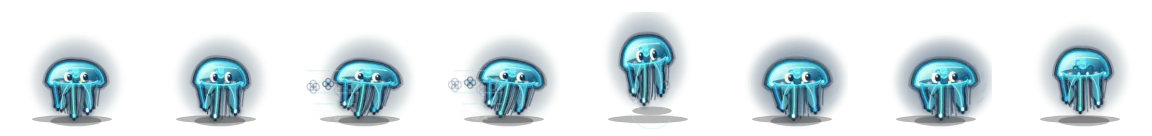
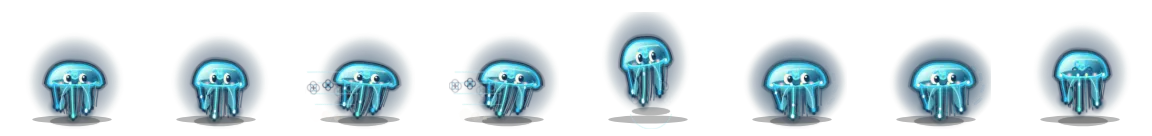
Afina a Yomi y enciende a Nácar y Constelación [skip ci]

diff --git a/characters/art/yomi-lantern.js b/characters/art/yomi-lantern.js
@@ -235,7 +235,12 @@ function shrineAccessory(c,f,w,h,swing,glow,shadow,acting){
  const y=-h*.48, cord='#f3bf80', tassel=f===4?'#f49a90':'#bf5478';
  c.save();
  c.translate(w*.79,y);
- c.rotate(swing*.016+(acting?.front||0)*.6);
+ c.rotate(swing*.025+(acting?.front||0)*.88);
+ if(f>=2){
+  line(c,shadow,4);c.beginPath();c.moveTo(5,29);c.lineTo(5,-25-f*2);c.stroke();
+  line(c,cord,1.45);c.beginPath();c.moveTo(5,28);c.lineTo(5,-25-f*2);c.stroke();
+  ellipse(c,5,-25-f*2,2.8,2.8,glow);
+ }
  line(c,cord,1.7);c.beginPath();c.moveTo(-4,0);c.quadraticCurveTo(9,2,11,14);c.stroke();
  if(f>=1){
   c.fillStyle=shadow;c.beginPath();c.moveTo(5,14);c.lineTo(17,14);c.lineTo(19,23);c.lineTo(15,29);c.lineTo(7,29);c.lineTo(3,23);c.closePath();c.fill();
@@ -288,7 +293,7 @@ function draw(ctx,pose,R){
   let open=st==="attack"?atk:cast===2?acting.maw:st==="victory"?.3:.05;
   let swing=(reduced?0:Math.sin(t*(run?.26:.08))*(run?5:2.4))+(Number(p.sway)||0)*3;
   let hover=(st==="dead"?1:(reduced?0:Math.sin(t*.067)*2.1))-(flight?3:0)+(acting?.rise||0);
-  const w=20+f*2.9,h=55+f*4.2;
+  const w=[18,17,18,19,20][f],h=[53,65,74,83,92][f];
   // V348 · Yomi stays physically connected during the title performance.
   // No substitute silhouette or combat casts: head, lantern ribs, sleeves,
   // trailing ribbon and hearth all belong to this ORIGINAL five-form art.
@@ -305,7 +310,7 @@ function draw(ctx,pose,R){
   // Original five silhouette types remain recognizable. The lantern's rib
   // geometry, its attached sleeves and the mouth all share the same origin.
   hover+=life.rise;swing+=life.ribbon;open=clamp(open+life.open,0,1);
-  const shoulder=-h*.68,faceY=-h*.72+listen*.8+reveal*(-1.4)+bow*2.1+life.face;
+  const shoulder=-h*.53,faceY=-h*.73+listen*.8+reveal*(-1.4)+bow*2.1+life.face;
   const stageTilt=listen*(-.10)+gather*.16-reveal*(-.19)+startle*.22+bow*(-.13);
   ctx.save();ctx.translate(0,hover);ctx.rotate(
     (run?(reduced?0:-.085*Math.sin(t*.32)):flight?-.045:0)
@@ -329,7 +334,7 @@ function draw(ctx,pose,R){
   }
   // The silhouette drops down into a split shrine coat as the forms mature.
   if(f>=1){
-    const flare=w*(.79+f*.095);
+    const flare=w*(.76+f*.06);
     ctx.fillStyle=shadow;ctx.beginPath();ctx.moveTo(-w*.55,shoulder);
     ctx.quadraticCurveTo(-flare,-26,-flare-swing*.42,-4);
     ctx.quadraticCurveTo(-w*.52,4,-4,-4);ctx.lineTo(0,-14);
@@ -365,7 +370,7 @@ function draw(ctx,pose,R){
     const welcomeSleeve=leading?(listen*.34+gather*.65+reveal*(-.75)+startle*.95+bow*.46+life.sleeveFront):
       (-listen*.19-gather*.40+reveal*.69-startle*.56+bow*.38+life.sleeveBack);
     ctx.rotate(side*((cast===1?.22:run?.22+(reduced?0:Math.sin(runPh+side*1.6)*.28):jumpS?.55:fallS?2.45:.12)+(reduced?0:Math.sin(t*.075+side)*.07))+windup+welcomeSleeve);
-    const sleeveLen=19+f*2.9+(cast===1?10:0)+(cast===2&&leading?4:0)+(cast===3?6*(acting?.aurora||0):0)+gather*1.7+reveal*2.3;
+    const sleeveLen=17+f*2.5+(cast===1?10:0)+(cast===2&&leading?4:0)+(cast===3?6*(acting?.aurora||0):0)+gather*1.7+reveal*2.3;
     ctx.fillStyle=shadow;ctx.beginPath();ctx.moveTo(-7,0);
     ctx.quadraticCurveTo(-13,sleeveLen*.5,-10,sleeveLen);
     ctx.quadraticCurveTo(0,sleeveLen+5,11,sleeveLen);
@@ -394,13 +399,18 @@ function draw(ctx,pose,R){
   // Expressive OHANA face, never permanent horror teeth.
   const mood=hurt?"closed":angry?"angry":(welcome?.spark||0)>.47?"closed":startle>.23?"closed":
     reveal>.25||bow>.20||(welcome?.melody||0)>.45||(welcome?.dino||0)>.45?"happy":st==="victory"||cast===3?"happy":"normal";
-  const eyeSize=f===0?8:7.1+f*.18;
-  R.eye(ctx,-8,faceY,eyeSize,p,{iris:f===4?"#a94568":"#60334b",mood});
-  R.eye(ctx,9,faceY,eyeSize*.92,p,{iris:f===4?"#a94568":"#60334b",mood});
+  const eyeSize=f===0?7.3:6.1+f*.13;
+  R.eye(ctx,-7.5,faceY,eyeSize,p,{iris:f===4?"#a94568":"#60334b",mood});
+  R.eye(ctx,8,faceY,eyeSize*.92,p,{iris:f===4?"#a94568":"#60334b",mood});
   if(!hurt&&mood==='normal'&&f>0){
-    line(ctx,shadow,1.45);ctx.beginPath();
-    ctx.moveTo(-16,faceY-3);ctx.lineTo(-18,faceY-5);
-    ctx.moveTo(15,faceY-3);ctx.lineTo(18,faceY-5);ctx.stroke();
+    line(ctx,shadow,2.05);ctx.beginPath();
+    ctx.moveTo(-13,faceY-1);ctx.quadraticCurveTo(-10,faceY-5,-4,faceY-4);
+    ctx.moveTo(4,faceY-4);ctx.quadraticCurveTo(10,faceY-5,14,faceY-1);ctx.stroke();
+    for(const side of [-1,1]){
+      line(ctx,'#b75a73',.85);ctx.beginPath();
+      ctx.moveTo(side*11,faceY+5);ctx.lineTo(side*9,faceY+7);
+      ctx.moveTo(side*13,faceY+5);ctx.lineTo(side*11,faceY+7);ctx.stroke();
+    }
   }
   if(!angry){
     ellipse(ctx,-w*.49,faceY+9,3.5,2.1,"#ef9fa0");
@@ -464,6 +474,12 @@ function draw(ctx,pose,R){
   if(st==="victory"||((p.flourishN||0)%4===3&&p.flourish>0)){
     const v=st==="victory"?pulse:Math.sin(Math.PI*clamp(p.flourish,0,1));
     ctx.save();ctx.globalAlpha=.4*v;crescent(ctx,w+5,faceY-19,9+f,glow);ctx.restore();
+  }
+  if(f>=2&&run&&!reduced){
+    line(ctx,trim,2);
+    ctx.beginPath();ctx.moveTo(-w*.59,-h*.34);
+    ctx.quadraticCurveTo(-w-8,-h*.21,-w-15-swing*.58,-h*.29);
+    ctx.stroke();
   }
   shrineAccessory(ctx,f,w,h,swing,glow,shadow,acting);
   drawYomiRitual(ctx,p,f,trim,glow,faceY,w,t);

diff --git a/characters/art/yomi.js b/characters/art/yomi.js
@@ -350,21 +350,30 @@ function drawTorso(ctx,F,f,col,glow,accent,core,t,pulse,swing,reduced){
   line(ctx,glow,1.2);for(const dx of [-8,0,8]){ctx.beginPath();ctx.moveTo(dx*.6,hemT+3);ctx.lineTo(dx*1.5+swing*.1,hemB+2);ctx.stroke();}
   return;
  }
- // F4 constellation gown: indigo glass full of stars, gold rim.
- const top=F.hy+F.hh/2+2,bot=-9,hem=27+Math.abs(swing)*.3;
- ctx.fillStyle=INDIGO;ctx.beginPath();ctx.moveTo(-14,top);ctx.lineTo(14,top);
- ctx.quadraticCurveTo(13,top+26,hem*.7,bot-12);ctx.quadraticCurveTo(hem+swing*.2,bot-4,hem*.9+swing*.2,bot);
- ctx.quadraticCurveTo(0,bot+6,-hem*.9+swing*.2,bot);ctx.quadraticCurveTo(-hem+swing*.2,bot-4,-hem*.7,bot-12);
- ctx.quadraticCurveTo(-13,top+26,-14,top);ctx.closePath();ctx.fill();line(ctx,GOLD,2.6);ctx.stroke();
- for(let i=0;i<14;i++){
-  const v=hn(i+3),u=hn(i+77),yy=top+6+v*(bot-top-10),half=14+(yy-top)/(bot-top)*(hem-14)-4;
-  ctx.save();ctx.globalAlpha=.5+.45*((Math.sin(t*.05+i*2.1)+1)/2);
-  if(i%5===0)star4(ctx,(u*2-1)*half,yy,2.6,"#fff6d8");else ellipse(ctx,(u*2-1)*half,yy,.9,.9,"#e8e4ff");
+ // The final chassis is an observatory with four armored shutters around a star.
+ const top=F.hy+F.hh/2+2,bot=-11,mid=(top+bot)*.5;
+ const spread=8+Math.min(15,core*7), drift=swing*.15;
+ for(const side of [-1,1]){
+  ctx.save();ctx.scale(side,1);
+  ctx.fillStyle='#372965';ctx.beginPath();ctx.moveTo(12,top);
+  ctx.lineTo(20+spread*.78,top+10);ctx.lineTo(23+spread,mid);
+  ctx.lineTo(17+spread*.64,bot-7);ctx.lineTo(9,bot);
+  ctx.lineTo(13+spread*.42,mid);ctx.closePath();ctx.fill();line(ctx,accent,1.5);ctx.stroke();
+  line(ctx,glow,1.2);ctx.beginPath();ctx.moveTo(16,top+9);
+  ctx.lineTo(20+spread*.73,mid-2);ctx.lineTo(15+spread*.49,bot-8);ctx.stroke();
   ctx.restore();
  }
- // pearl chest piece with the core
- ctx.fillStyle=col[0];ctx.beginPath();ctx.moveTo(-14,top);ctx.lineTo(14,top);ctx.quadraticCurveTo(12,top+13,0,top+19);ctx.quadraticCurveTo(-12,top+13,-14,top);ctx.closePath();ctx.fill();line(ctx,LINE,2.2);ctx.stroke();
- drawCore(ctx,0,top+9,5.6+core,glow,accent,pulse);
+ ctx.fillStyle=INDIGO;ctx.beginPath();ctx.moveTo(-13,top);ctx.lineTo(13,top);
+ ctx.lineTo(17,mid);ctx.lineTo(11+drift,bot);ctx.lineTo(-11+drift,bot);
+ ctx.lineTo(-17,mid);ctx.closePath();ctx.fill();line(ctx,GOLD,2.1);ctx.stroke();
+ for(let i=0;i<7;i++){
+  const yy=top+7+hn(i+4)*(bot-top-12), xx=(hn(i+70)*2-1)*11;
+  ellipse(ctx,xx,yy,1.05,1.05,i%2?glow:'#fff6d8');
+ }
+ drawCore(ctx,0,mid,6.2+core,glow,accent,pulse);
+ star4(ctx,0,mid,4.2+core*.6,'#faffff');
+ line(ctx,accent,2);ctx.beginPath();ctx.moveTo(-6+drift,bot+4);ctx.lineTo(6+drift,bot+4);ctx.stroke();
+
 }
 
 function drawCore(ctx,x,y,r,glow,accent,pulse){
@@ -380,7 +389,7 @@ function wingNodes(side,spread,sweep){
  const base=[[14,-14],[30,-24],[42,-12],[36,4],[22,8]];
  return base.map(([x,y],i)=>[side*(x*sx-sweep*i*1.2),y*sy+sweep*i*.8]);
 }
-function drawRadiators(ctx,side,F,t,spread,sweep,reduced){
+function drawWing(ctx,side,F,t,spread,sweep,reduced){
  const rootX=side*8,rootY=F.hy+F.hh/2+6,nodes=wingNodes(side,spread,sweep);
  ctx.save();ctx.translate(rootX,rootY);ctx.globalAlpha=.94;
  // A network becomes a set of articulated solar panels, with family lights along the hinges.
@@ -436,7 +445,7 @@ function drawSatellites(ctx,F,t,front,reduced,glow,accent,cast,acting){
 
 function drawRingHalf(ctx,F,front,t,reduced,acting){
  const y=F.hy+F.hh/2+28;
- const r=34+(acting?.release||0)*5, ry=14;
+ const r=36+(acting?.release||0)*7, ry=14+2*(acting?.release||0);
  const phase=reduced?0:t*.018;
  ctx.save();ctx.translate(0,y);
  ctx.strokeStyle=front?'#e7c48d':'#637baf';ctx.lineWidth=front?1.45:2;
@@ -594,8 +603,8 @@ export function drawArtificialIntelligence(ctx,pose,R){
   else if(st==="idle"&&!reduced){const br=Math.sin(t*.05)*.014;ctx.scale(1+br,1-br);} // soft shell breathing
   else if(st==="victory"&&!reduced){const hop=Math.abs(Math.sin(t*.16));ctx.translate(0,-hop*3);ctx.scale(1-hop*.03,1+hop*.03);}
   // ── BACK LAYER ─────────────────────────────────────────────
-  if(f===2)drawRadiators(ctx,-1,F,T,spread,sweep,reduced);
-  if(f===2)drawRadiators(ctx,1,F,T,spread*.92,sweep,reduced);
+  if(f===2)drawWing(ctx,-1,F,T,spread,sweep,reduced);
+  if(f===2)drawWing(ctx,1,F,T,spread*.92,sweep,reduced);
   if(f===3)drawCape(ctx,F,T,glow,swing,run,reduced);
   if(f===3)drawSatellites(ctx,F,T,false,reduced,glow,accent,cast,acting);
   if(f===4)drawRingHalf(ctx,F,false,T,reduced,acting);

diff --git a/characters/identity-v2.js b/characters/identity-v2.js
@@ -2,7 +2,7 @@
 // Collision boxes, number of jumps, ability IDs and persisted evolution IDs
 // are deliberately unchanged. Kilo retains its approved V1 curves.
 export const HERO_IDENTITY = Object.freeze({
- nacar:{title:'Amiga de la marea',strength:'Planeo veloz y control de las corrientes',weakness:'Conserva inercia en el aire',melee:.85,cooldown:1.05,speed:[6.1,6.8,7.5,8.2,9.2],hp:[86,105,130,160,200],jump:[12.4,13,13.8,14.5,15.2]},
+ nacar:{title:'Amiga de la marea',strength:'Planeo veloz y control de las corrientes',weakness:'Conserva inercia en el aire',melee:.85,cooldown:1.05,speed:[5.75,6.45,7.15,8.05,9.2],hp:[86,105,130,160,200],jump:[12.4,13,13.8,14.5,15.2]},
   kilo:    { title:'Directora del compás', strength:'Control, apoyo y vuelo musical', weakness:'Necesita ritmo y preparación', melee:1, cooldown:1 },
   stitcho: { title:'Acróbata del plasma', strength:'Movilidad, paredes y cuatro saltos', weakness:'Resiste poco los choques', melee:1.05, cooldown:.92, speed:[4.6,5.2,6,6.8,8], hp:[86,104,126,154,195], jump:[12,12.8,13.6,14.5,16] },
   chispin: { title:'Asalto eléctrico', strength:'La mayor cadencia de ataques', weakness:'La vida más baja; esquiva o cae', melee:.78, cooldown:.76, speed:[5.5,6.2,7,8,9.2], hp:[56,70,88,110,138], jump:[12.2,12.9,13.6,14.4,15.8] },
@@ -12,8 +12,8 @@ export const HERO_IDENTITY = Object.freeze({
   dino:    { title:'Coloso rompeguardias', strength:'El mayor aguante y golpe H', weakness:'El más lento; compromete cada ataque', melee:1.48, cooldown:1.24, speed:[4,4.3,4.8,5.1,6], hp:[140,180,225,285,360], jump:[11,11.6,12.2,12.6,14] },
   frita:   { title:'Especialista del aire', strength:'Impulso, derrape y corrección aérea', weakness:'Poca vida; depende del movimiento', melee:.9, cooldown:.85, speed:[5,5.7,6.5,7.4,8.5], hp:[70,88,108,136,172], jump:[11.4,12.1,12.8,13.6,15] },
   pizza:   { title:'Defensa elástica', strength:'Aguanta golpes, rebota y controla el suelo', weakness:'Carrera lenta, necesita anticipar', melee:1.2, cooldown:1.08, speed:[3.7,4.2,4.8,5.4,6.2], hp:[110,138,174,218,275], jump:[11.8,12.4,13.1,13.6,15.2] },
-  yomi:    { title:'Guardiana errante', strength:'Arranque rápido en tierra y sellos en cadena', weakness:'Cambiar de rumbo en el aire exige anticipar', melee:.75, cooldown:.88, speed:[6.3,7,7.8,8.6,9.6], hp:[74,92,114,143,180], jump:[12,12.6,13.2,13.8,14.8] },
-  ia:      { title:'Piloto de constelación', strength:'Invierte el rumbo en el aire y frena con precisión', weakness:'Su prisma exige preparar una línea de tiro', melee:.75, cooldown:.88, speed:[6,6.8,7.6,8.5,9.5], hp:[74,92,114,143,180], jump:[12,12.6,13.2,13.8,14.8] },
+  yomi:    { title:'Guardiana errante', strength:'Arranque rápido en tierra y sellos en cadena', weakness:'Cambiar de rumbo en el aire exige anticipar', melee:.75, cooldown:.88, speed:[5.9,6.6,7.3,8.3,9.45], hp:[74,92,114,143,180], jump:[12,12.6,13.2,13.8,14.8] },
+  ia:      { title:'Piloto de constelación', strength:'Invierte el rumbo en el aire y frena con precisión', weakness:'Su prisma exige preparar una línea de tiro', melee:.75, cooldown:.88, speed:[5.8,6.55,7.22,8.25,9.5], hp:[74,92,114,143,180], jump:[12,12.6,13.2,13.8,14.8] },
 });
 export function applyHeroIdentity(roster) {
   for (const hero of roster) {

diff --git a/sw.js b/sw.js
@@ -530,7 +530,7 @@ const PRECACHE = [
 const PRECACHE_REVISIONS = {
   "engine/foes/nacar-fauna.js": "c48d95ae255ee3a5ffa4c2419a0769b692296ec7",
   "systems/intro-nacar-stage.js": "1cb520e61ba13b8fe8edc48e92b6df54d24d4872",
-  "assets/photobooth/nacar.webp": "68fcc6d0b8b6be9affb8fa93f2f3aaf07ec4f189",
+  "assets/photobooth/nacar.webp": "5428907572fee919ffc5f5faa314b3537353402b",
   "assets/photobooth/ia.webp": "39b349d1880da7f44ac01befd287c07ff3466b5a",
   "characters/art/ia.js": "8bb3eca84e2336edbdc7d4e14cf077fb119bdf9c",
   "systems/nacar-chapter.js": "82977e38f3f9fb051cffb2e253613262ccfc848a",
@@ -539,8 +539,8 @@ const PRECACHE_REVISIONS = {
   "systems/michi-adventure.js": "1a78a910a2336e49990192260d48c149caf9159a",
   "worlds/michi-adventure-art.js": "1636aabb4493316763af546204ad067449d27e2f",
   "engine/foes/michi-sanctuary-fauna.js": "29f7d4f1e736410ca703e9198a242e1b46a86812",
-  "characters/art/nacar.js": "ce4dffd1b20813f78a1c502a030c83236a802503",
-  "characters/art/yomi-lantern.js": "92d20cdf35b74ced5cf3946aa3be7166f0b3a822",
+  "characters/art/nacar.js": "cae26fb69e0a6ada4e9ea946f3ca84f5cd8253de",
+  "characters/art/yomi-lantern.js": "7bcee151f4c61fd50178803983dc860e69a642c4",
   "systems/quimera-pressure.js": "d2f92470f86f55dedb289b76d6130128894b6cdc",
   "systems/quimera-telegraphs.js": "977db755af2b14f971068228d5ba800d0ed5f90d",
   "systems/quimera-energy.js": "c157cfc1379196e4d221809ba64c5974c41e7536",
@@ -656,7 +656,7 @@ const PRECACHE_REVISIONS = {
   "systems/memory-rewards-v2.js": "1e05028207ff79facac051d6396fb5e9a9a0ed41",
   "systems/adventure-guide-v2.js": "2d7c5fa6c731649e23bb05856ac295d18b3bfea6",
   "systems/enemy-hero-counterplay.js": "3ed7df907f0a349cdb92aab12c7e539ad566ca78",
-  "characters/identity-v2.js": "1688989c6ff6ed39924360d5aab9efc0556103de",
+  "characters/identity-v2.js": "f0410eebe4c2e53d541760b20f387e16139d9dd2",
   "characters/anatomical-stride.js": "3a0bb654e3f7d8cc65c28a6c86f07c5bf0169b1d",
   "systems/chapter-encounters.js": "457d07ff55d9fa992e81cefc66a7a80451a4c9f7",
   "systems/campaign-creature-art.js": "1790c718032cdc7bbb1dbfe8954a755a04e6a2cc",
@@ -840,7 +840,7 @@ const PRECACHE_REVISIONS = {
   "characters/art/pizza.js": "983af39f1c86fe5155650f4aa0925ce0ddb8ebad",
   "characters/art/stitch.js": "691b89d590591229f957c1e678a083c601dab006",
   "characters/art/stitcho.js": "cdc8f5ec3158c79ca9600bcd5b40dbd8b3e94cdc",
-  "characters/art/yomi.js": "28b54fee54a2055a91ef1211fb23056ece0b44c8",
+  "characters/art/yomi.js": "ee44509a959c38c54982d256d3e3a3504ed5cd1a",
   "characters/draw.js": "ac4c6c837d7cc50b6c3d93f40859b7c7efd71d7a",
   "characters/kinetic-stagecraft.js": "8c57247462c7ed4c1129196887e75369167bd764",
   "characters/evolution.js": "55274a90c17961806e8ace271b32854a32e0f759",

diff --git a/characters/art/nacar.js b/characters/art/nacar.js
@@ -29,7 +29,7 @@ function glow(c,x,y,r,color,alpha){
  if(!c.createRadialGradient)return;
  c.save();c.globalAlpha=alpha;
  const light=c.createRadialGradient(x,y,0,x,y,r);
- light.addColorStop(0,color+'7f');light.addColorStop(.38,color+'32');light.addColorStop(1,color+'00');
+ light.addColorStop(0,color+'b8');light.addColorStop(.38,color+'49');light.addColorStop(1,color+'00');
  c.fillStyle=light;c.fillRect(x-r,y-r,r*2,r*2);c.restore();
 }
 
@@ -105,7 +105,13 @@ function ribbons(c,d,s,f,t,hem,drag,squeeze){
   if(i%3===0){
    c.strokeStyle=neon[i%2];c.lineWidth=1.65;c.stroke();
    const wave=.53+.47*Math.sin(t*.093-i*.63);
-   glow(c,tip,hem+length,7+f,neon[i%2],.44+.36*wave);
+   glow(c,tip,hem+length,8+f,neon[i%2],.54+.38*wave);
+   if(t>0){
+    const u=(t*.033+i*.09)%1, v=1-u;
+    const sparkX=v*v*v*start+3*v*v*u*(start+sway*.12)+3*v*u*u*(tip-sway*.44)+u*u*u*tip;
+    const sparkY=v*v*v*(hem-3)+3*v*v*u*(hem+length*.37)+3*v*u*u*(hem+length*.78)+u*u*u*(hem+length);
+    oval(c,sparkX,sparkY,1.25+f*.11,1.9,'#efffff');
+   }
    oval(c,tip,hem+length,1.55+f*.14,2.65,wave>.55?'#efffff':neon[i%2]);
   }
  }
@@ -150,9 +156,10 @@ function trim(c,d,s,f,t,cast){
  for(let i=0;i<4+f*2;i++){
   const u=2*i/(3+f*2)-1;
   const x=u*d.rx*.86;
-  const glow=.67+.28*Math.sin(i*.75-t*.073);
-  c.globalAlpha=cast?1:glow;
-  oval(c,x,d.ry*.47,1.5+f*.16,1.8+f*.14,i%3?s.rim:s.light2);
+  const lamp=.64+.35*Math.sin(i*.88-t*.074);
+  glow(c,x,d.ry*.47,5+f*.7,NEON[f][i%2],.57+lamp*.31);
+  c.globalAlpha=cast?1:lamp;
+  oval(c,x,d.ry*.47,1.5+f*.16,1.8+f*.14,i%3?'#eaffff':s.light2);
  }
  c.globalAlpha=.69;
  c.strokeStyle=s.light;
@@ -240,7 +247,7 @@ function draw(c,p={}){
  bellPath(c,f,d.rx,d.ry);
  c.fillStyle=glass(c,d,s,hurt);c.fill();
  c.strokeStyle=neon[1]+'45';c.lineWidth=7;c.stroke();
- c.strokeStyle=neon[0];c.lineWidth=1.7;c.stroke();
+ c.strokeStyle=neon[0];c.lineWidth=2.15;c.stroke();
  oval(c,0,d.ry*.35,d.rx*.85,d.ry*.24,s.dark+'b8');
  c.strokeStyle=neon[1];c.lineWidth=1.55;
  c.beginPath();c.ellipse(0,d.ry*.34,d.rx*.79,d.ry*.27,0,.1,Math.PI-.1);c.stroke();
